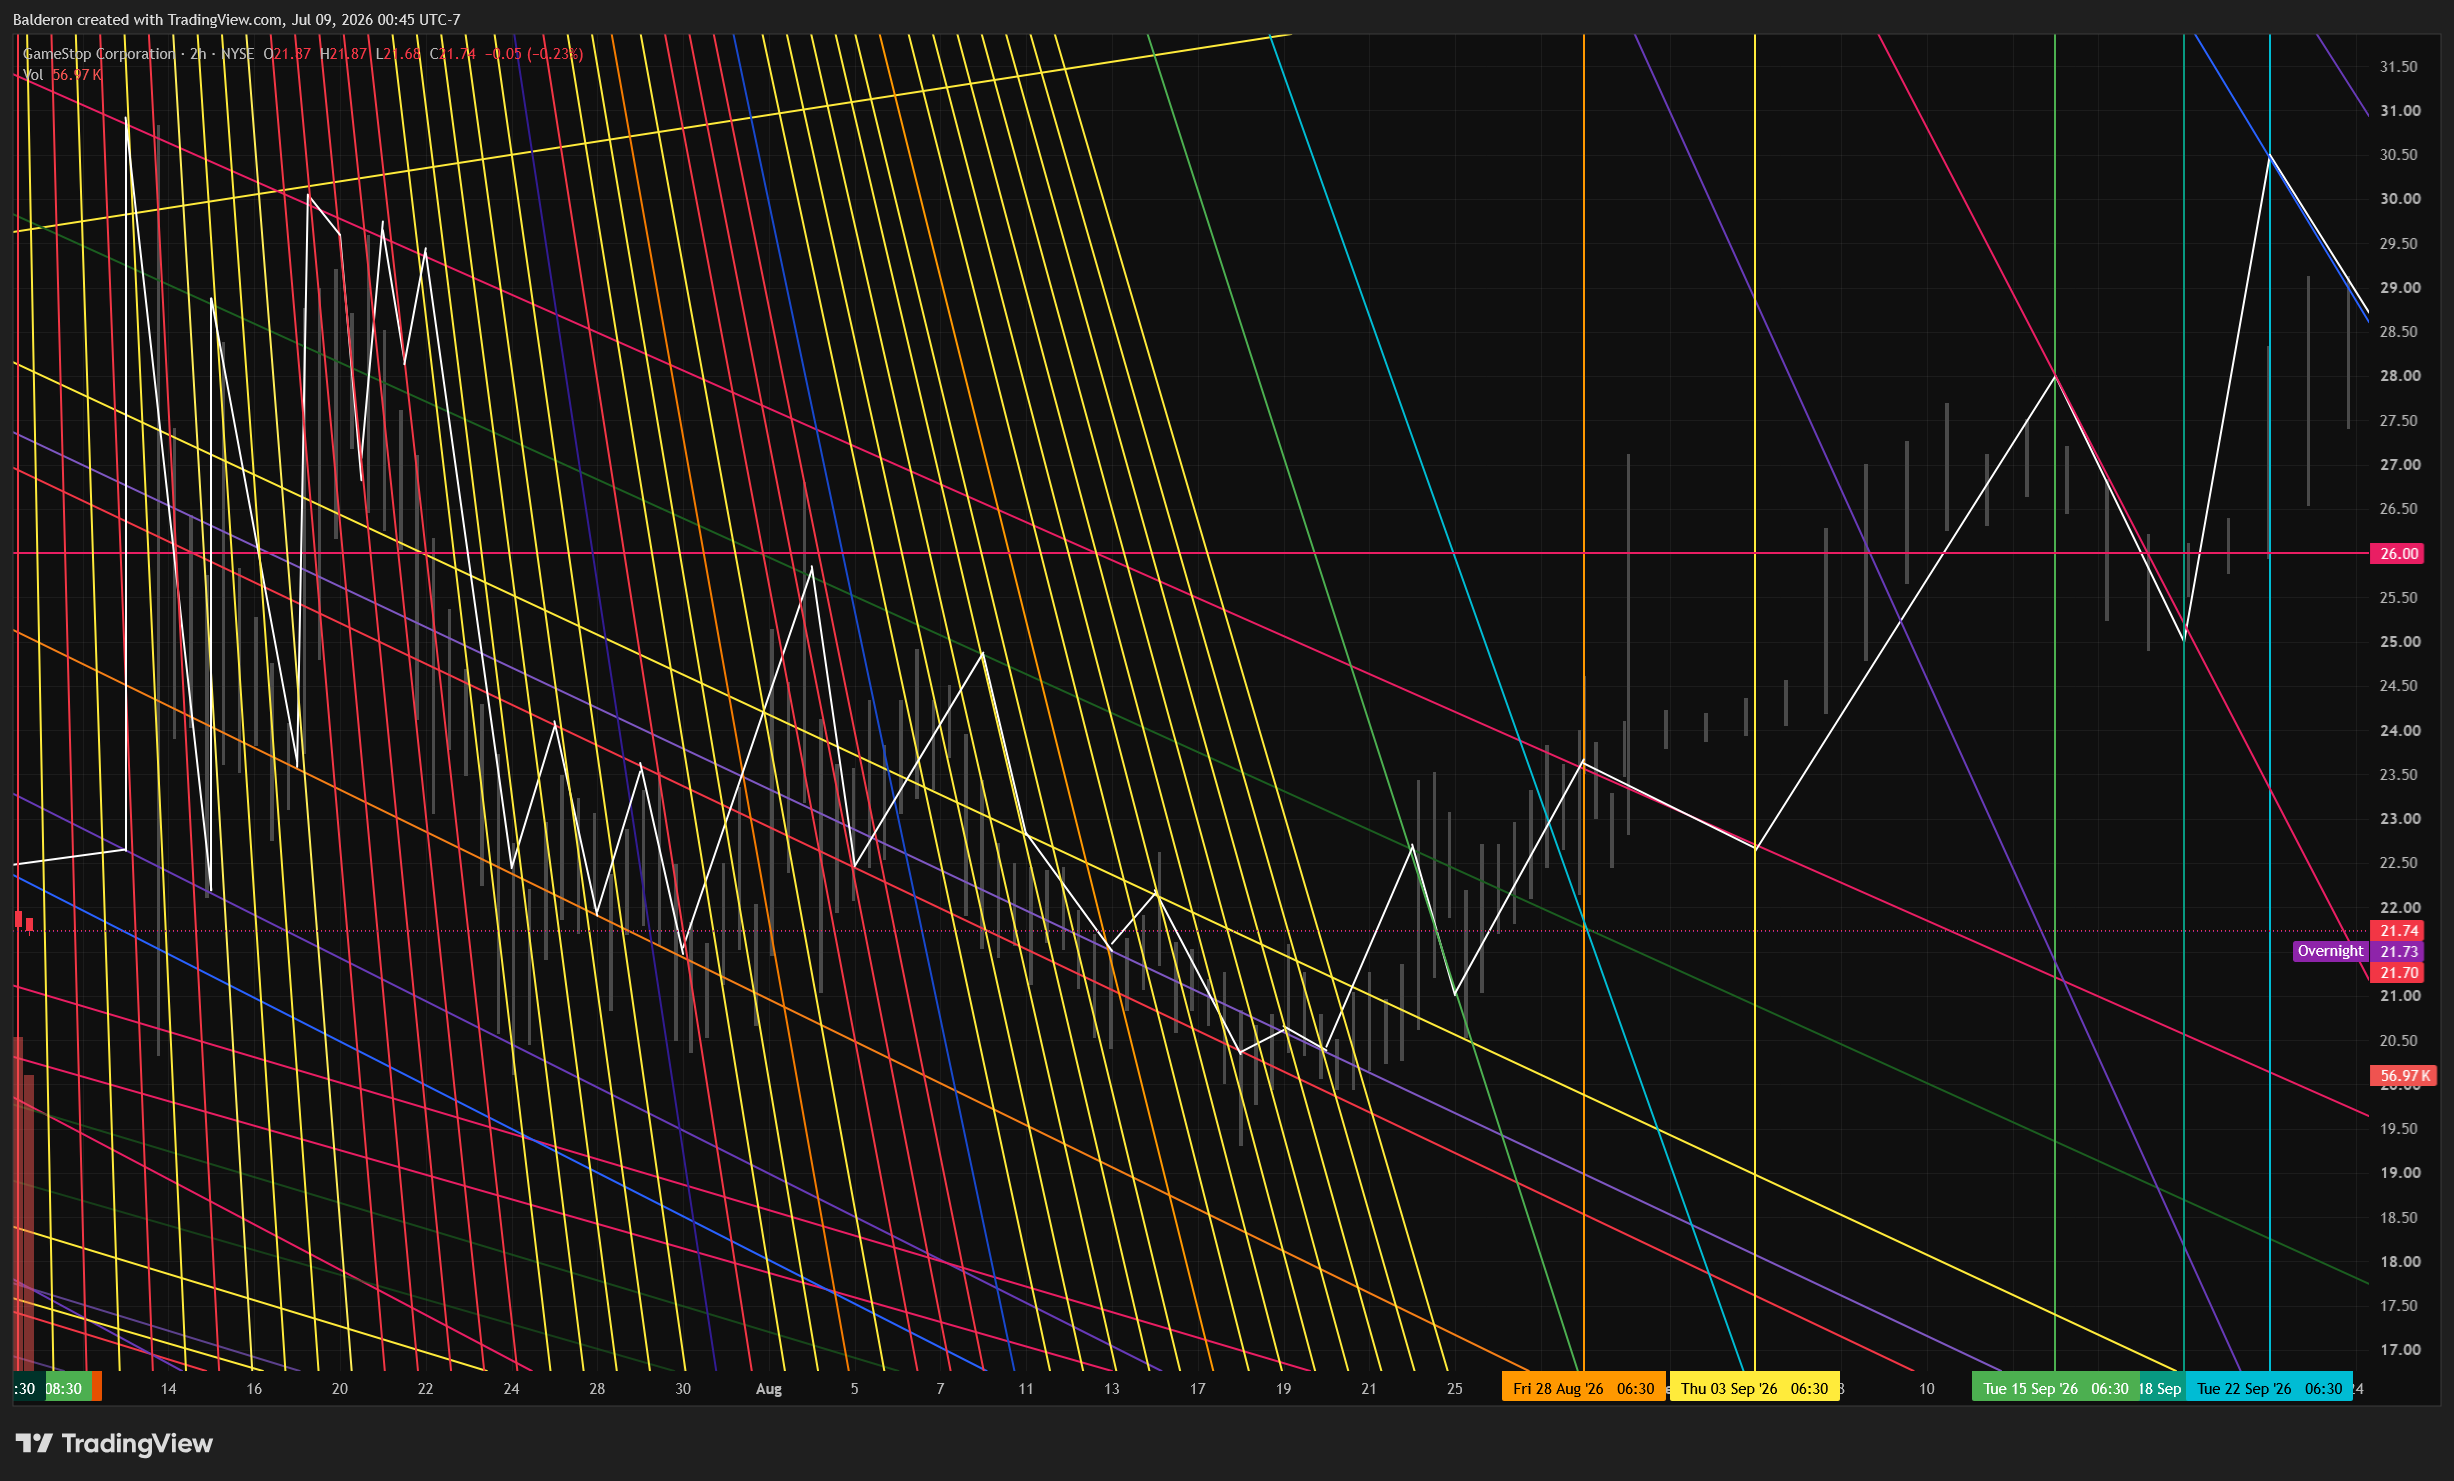
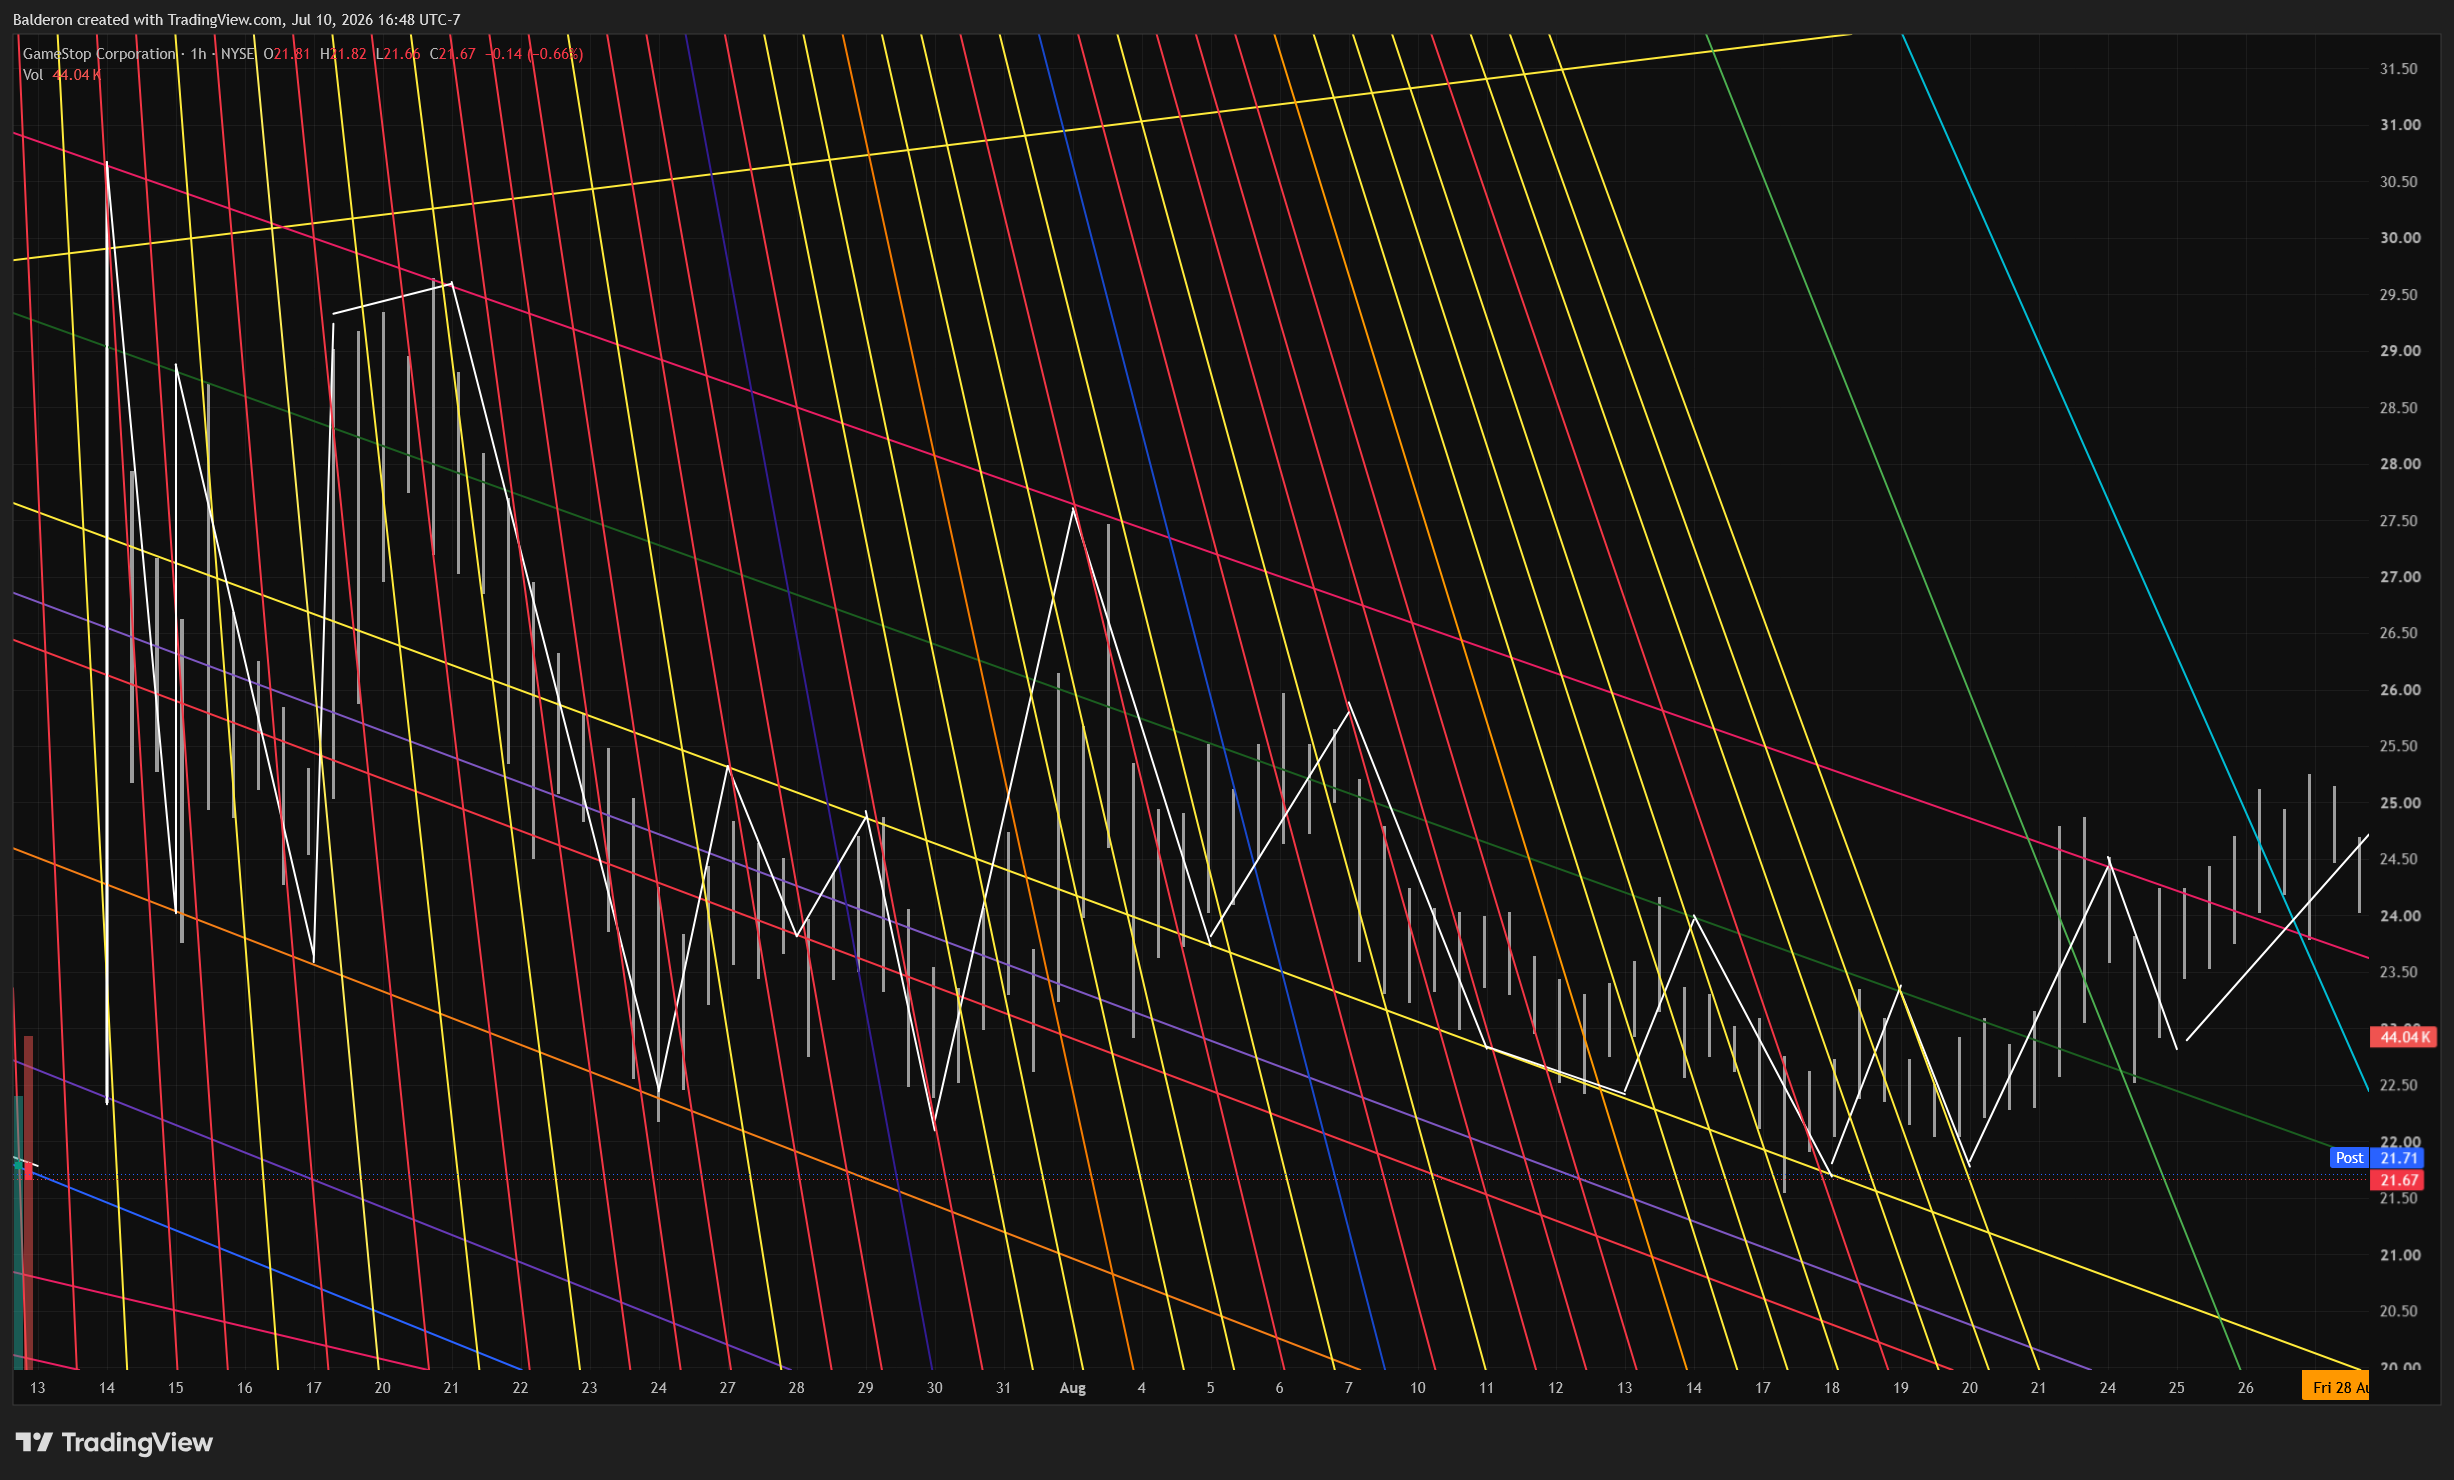
Dialed in upcoming cycle.

diff --git a/README.md b/README.md
@@ -16,44 +16,58 @@ Possible timeline and approximate price: ( only rough estimates and subject to c
 
 Algo based timeline and approximate price:
 |Seq # |	Date |	Estimated Price*|
-|-------|-----|------------|
-|1 	| 6/25 	|21.5|
-|2 	| 6/25 	|21|
-|3 	| 6/26 	|22|
-|4 	| 7/1 	|23.2|
-|20 | 	7/7 |	23.30|
-|38	| 7/8 	|23|
-|1	| 7/13 	|30.5|
-|2	| 7/14 	|22.5|
-|3	| 7/15 	|28.8|
-|17	| 7/17 	|30|
-|18/19/20	| 7/20 	|->26.75-->29.5|
-|23	| 7/23 	|22.5|
-|24	| 7/24 	|24|
-|25	| 7/27 	|22|
-|26	| 7/28 	|23.5|
-|27	| 7/29 	|21.5|
-|28	| 8/3 	|25.75|
-|	| 8/4 	|22.5|
-|	| 8/7 	|24.8|
-|	| 8/12 	|21.5|
-|	| 8/13 	|22.15|
-|	| 8/19 	|20.5|
-|	| 8/24 	|21|
-|32 | 	8/28| 	23.75|
-|	| 9/3 	|Up|
-|	| 9/9 	|Up|
-|33 | 	9/15| 	28|
-|	| 9/18 	|25|
-|34 |	9/22| 	30.5|
-|Here |	After |	UP!!!!|
-|36 |	12/23 |	BIG UP!!!!!!|
-|	| 12/28 |	BIG UP!!!!!!|
-|37 |	1/5 |	Low|
-|	|1/6 |	UP!!!!!|
-|	|1/21| 	Low|
-|38 |	1/22 |	UP!!!!!|
-|1 	|2/8 |	MOASS|
+|-------|-----|------------|------|
+|1 	| 6/25 	|21.5||
+|2 	| 6/25 	|21||
+|3 	| 6/26 	|22||
+|4 	| 7/1 	|23.2||
+|20 | 	7/7 |	23.30||
+|38	| 7/8 	|23||
+|1	| 7/14 	|30.5||
+|2	| 7/14 	|24|Possibly early 7/15 ~2hrs into trading|
+|3	| 7/15 	|28.8||
+|13	| 7/16 	|24.5||
+|17	| 7/17 	|29.25||
+|18/19/20	| 7/20 	|29.6||
+|23	| 7/23 	|22.5||
+|24	| 7/24 	|25.25||
+|25	| 7/27 	|23.8|May drop to 22.75|
+|26	| 7/28 	|24.8||
+|27	| 7/29 	|22.15||
+|	| 7/31 	|26||
+|28	| 8/3 	|27.5 --> 23|May be a highly volatile day, slams down to 23 by close. SLN 5 forms|
+|	| 8/4 	|23.75||
+|	| 8/7 	|25.75||
+|	| 8/12 	|22.4||
+|	| 8/13 	|24||
+|	| 8/17 	|21.7|Last best buy. Only up trend from here. Doubling by Jan|
+|	| 8/21 	|24.4||
+|	| 8/24 	|22.5||
+|32 | 	8/28|24.75|Possible jump to 28|
+|	| 9/3 	||Up|
+|	| 9/9 	||Up|
+|33 | 	9/15|28||
+|	| 9/18 	|25.5||
+|34 |	9/22|30.5||
+|	| 9/25 	|28||
+|Here |	After |	UP!!!!||
+|	| 10/12	|30||
+|	| 10/13 	|33.5|May be a highly volatile day, slams down to 30.25 by close|
+|	| 10/14 	|34.8|Possibly spikes to 34.8 *May not form|
+|	| 10/16 	|32.5||
+|	| 10/19 	|35.1|Possibly spikes to 35.1 *May not form|
+|	| 10/21 	|33||
+|	| 10/27 	|35.5||
+|	| 11/4 	|30||
+|	| 12/8 	|37.6||
+|	| 12/14 	|31.8||
+|36 |	12/23 |	42.5|BIG UP!!!!!!|
+|	| 12/24 	|39||
+|	| 12/28 |	42.4|BIG UP!!!!!!|
+|37 |	1/5 |	37.5|Low|
+|	|1/6 |	39.25|UP!!!!!|
+|38 |	1/22 |	UP!!!!!|HUGE UP!!!!!|
+|1 	|2/8 |	UP!!!!!UP!!!!!|GARGANTUAN UP!!!!!|	
 
 *-Prices are flexible, look to the log chart and past pattern to estimate as dates get closer. In parenthesis is a possible alternate price path.
 
@@ -71,6 +85,9 @@ GME Log Chart 5yr
 
 ![](/LogChart2yr%20Zoom.png)
 GME Log Chart 2yr w Forecast
+
+![](/LogChartForecastOnly.png)
+GME Log Chart Forecast
 
 ![](/LinearForecast.png)
 GME Linear Forecast